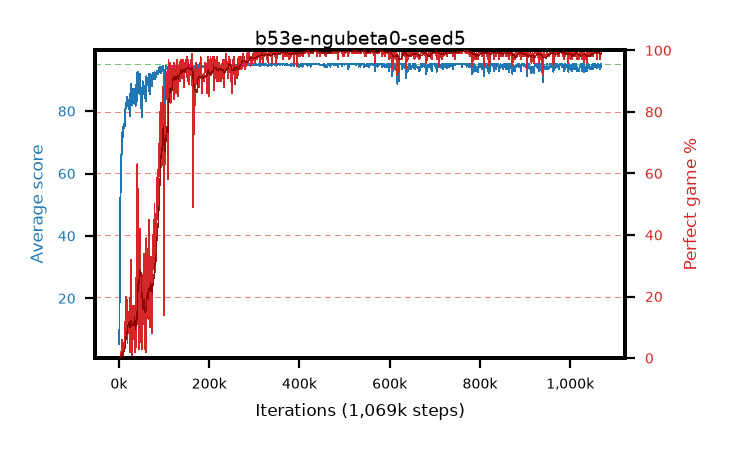
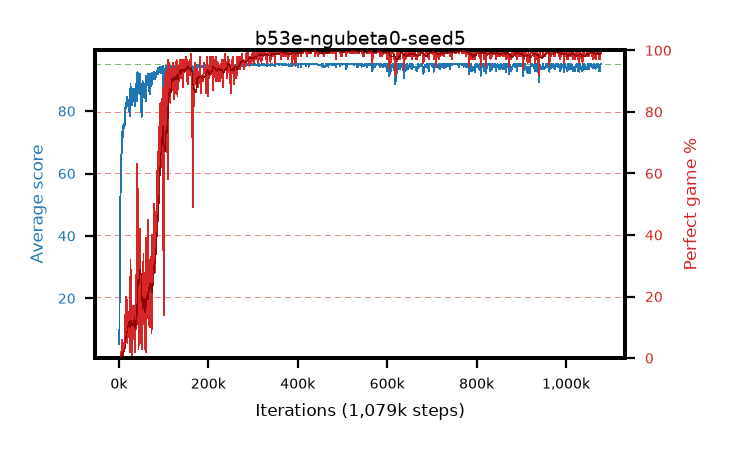
live pictures of 4 arm(s)

diff --git a/results/b53e-ngubeta0-seed5/b53e-ngubeta0-seed5.md b/results/b53e-ngubeta0-seed5/b53e-ngubeta0-seed5.md
@@ -1,6 +1,6 @@
 # b53e-ngubeta0-seed5
 
-step **1,069,000** · 1069 evals · trailing **94.33** · peak **94.95** @437,000 · sef **90.6** · best30 **99.8** @530,000
+step **1,079,000** · 1079 evals · trailing **94.41** · peak **94.95** @437,000 · sef **90.6** · best30 **99.8** @530,000
 
 ## Config
 
@@ -80,15 +80,15 @@ step **1,069,000** · 1069 evals · trailing **94.33** · peak **94.95** @437,00
 | 2000 | 29.39 | 17.35 | 3.0 | 54.0 | 24.459 | 0.0 | 0.4 |
 | 3000 | 50.81 | 28.5 | 16.0 | 85.0 | 45.457 | 0.0 | 0.4 |
 | ... | ... | ... | ... | ... | ... | ... | ... |
-| 1058000 | 94.17 | 94.13 | 12.0 | 95.0 | 191.918 | 99.0 | 0.4 |
-| 1059000 | 94.08 | 94.15 | 6.0 | 95.0 | 190.762 | 98.0 | 0.4 |
-| 1060000 | 93.71 | 94.19 | 25.0 | 95.0 | 189.367 | 97.0 | 0.4 |
-| 1061000 | 95.0 | 94.19 | 95.0 | 95.0 | 193.787 | 100.0 | 0.4 |
-| 1062000 | 94.27 | 94.19 | 22.0 | 95.0 | 192.017 | 99.0 | 0.4 |
-| 1063000 | 95.0 | 94.24 | 95.0 | 95.0 | 193.781 | 100.0 | 0.4 |
-| 1064000 | 94.39 | 94.24 | 34.0 | 95.0 | 192.135 | 99.0 | 0.4 |
-| 1065000 | 94.19 | 94.26 | 14.0 | 95.0 | 191.942 | 99.0 | 0.4 |
-| 1066000 | 93.43 | 94.29 | 12.0 | 95.0 | 189.137 | 97.0 | 0.4 |
-| 1067000 | 94.22 | 94.34 | 18.0 | 95.0 | 190.92 | 98.0 | 0.4 |
 | 1068000 | 95.0 | 94.34 | 95.0 | 95.0 | 193.786 | 100.0 | 0.4 |
 | 1069000 | 94.09 | 94.33 | 4.0 | 95.0 | 191.826 | 99.0 | 0.4 |
+| 1070000 | 95.0 | 94.36 | 95.0 | 95.0 | 193.785 | 100.0 | 0.4 |
+| 1071000 | 94.21 | 94.33 | 16.0 | 95.0 | 191.96 | 99.0 | 0.4 |
+| 1072000 | 95.0 | 94.36 | 95.0 | 95.0 | 193.781 | 100.0 | 0.4 |
+| 1073000 | 92.77 | 94.34 | 19.0 | 95.0 | 188.448 | 97.0 | 0.4 |
+| 1074000 | 94.21 | 94.36 | 16.0 | 95.0 | 191.949 | 99.0 | 0.4 |
+| 1075000 | 92.68 | 94.31 | 14.0 | 95.0 | 188.349 | 97.0 | 0.4 |
+| 1076000 | 94.95 | 94.34 | 90.0 | 95.0 | 192.689 | 99.0 | 0.4 |
+| 1077000 | 95.0 | 94.36 | 95.0 | 95.0 | 193.785 | 100.0 | 0.4 |
+| 1078000 | 95.0 | 94.41 | 95.0 | 95.0 | 193.789 | 100.0 | 0.4 |
+| 1079000 | 95.0 | 94.41 | 95.0 | 95.0 | 193.783 | 100.0 | 0.4 |

diff --git a/results/b53g-ngubeta0-seed7/b53g-ngubeta0-seed7.md b/results/b53g-ngubeta0-seed7/b53g-ngubeta0-seed7.md
@@ -1,6 +1,6 @@
 # b53g-ngubeta0-seed7
 
-step **1,079,000** · 1079 evals · trailing **94.43** · peak **94.97** @274,000 · sef **89.7** · best30 **99.8** @348,000
+step **1,089,000** · 1089 evals · trailing **94.55** · peak **94.97** @274,000 · sef **89.8** · best30 **99.8** @348,000
 
 ## Config
 
@@ -80,15 +80,15 @@ step **1,079,000** · 1079 evals · trailing **94.43** · peak **94.97** @274,00
 | 2000 | 37.8 | 20.34 | 6.0 | 63.0 | 32.628 | 0.0 | 0.4 |
 | 3000 | 67.99 | 36.22 | 23.0 | 95.0 | 74.006 | 11.0 | 0.4 |
 | ... | ... | ... | ... | ... | ... | ... | ... |
-| 1068000 | 94.2 | 94.44 | 15.0 | 95.0 | 191.953 | 99.0 | 0.4 |
-| 1069000 | 94.28 | 94.42 | 23.0 | 95.0 | 192.029 | 99.0 | 0.4 |
-| 1070000 | 94.26 | 94.39 | 21.0 | 95.0 | 192.005 | 99.0 | 0.4 |
-| 1071000 | 94.13 | 94.39 | 8.0 | 95.0 | 191.869 | 99.0 | 0.4 |
-| 1072000 | 95.0 | 94.44 | 95.0 | 95.0 | 193.782 | 100.0 | 0.4 |
-| 1073000 | 94.2 | 94.44 | 15.0 | 95.0 | 191.944 | 99.0 | 0.4 |
-| 1074000 | 95.0 | 94.44 | 95.0 | 95.0 | 193.789 | 100.0 | 0.4 |
-| 1075000 | 94.98 | 94.46 | 93.0 | 95.0 | 192.715 | 99.0 | 0.4 |
-| 1076000 | 93.45 | 94.41 | 16.0 | 95.0 | 190.157 | 98.0 | 0.4 |
-| 1077000 | 95.0 | 94.41 | 95.0 | 95.0 | 193.79 | 100.0 | 0.4 |
 | 1078000 | 94.8 | 94.43 | 75.0 | 95.0 | 192.54 | 99.0 | 0.4 |
 | 1079000 | 95.0 | 94.43 | 95.0 | 95.0 | 193.783 | 100.0 | 0.4 |
+| 1080000 | 95.0 | 94.46 | 95.0 | 95.0 | 193.784 | 100.0 | 0.4 |
+| 1081000 | 94.05 | 94.5 | 29.0 | 95.0 | 190.766 | 98.0 | 0.4 |
+| 1082000 | 95.0 | 94.5 | 95.0 | 95.0 | 193.793 | 100.0 | 0.4 |
+| 1083000 | 95.0 | 94.5 | 95.0 | 95.0 | 193.794 | 100.0 | 0.4 |
+| 1084000 | 94.29 | 94.48 | 24.0 | 95.0 | 192.037 | 99.0 | 0.4 |
+| 1085000 | 95.0 | 94.5 | 95.0 | 95.0 | 193.79 | 100.0 | 0.4 |
+| 1086000 | 95.0 | 94.53 | 95.0 | 95.0 | 193.791 | 100.0 | 0.4 |
+| 1087000 | 95.0 | 94.53 | 95.0 | 95.0 | 193.793 | 100.0 | 0.4 |
+| 1088000 | 95.0 | 94.53 | 95.0 | 95.0 | 193.789 | 100.0 | 0.4 |
+| 1089000 | 95.0 | 94.55 | 95.0 | 95.0 | 193.788 | 100.0 | 0.4 |
